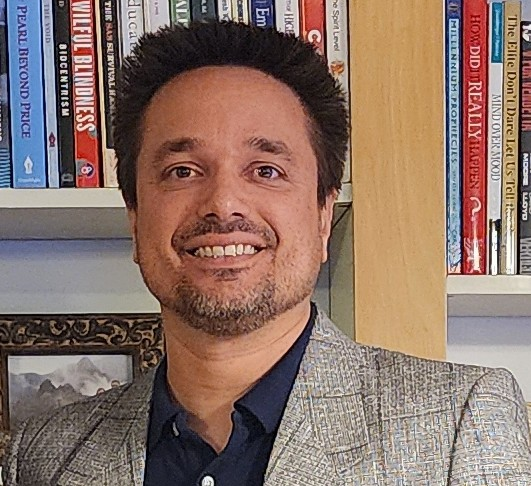
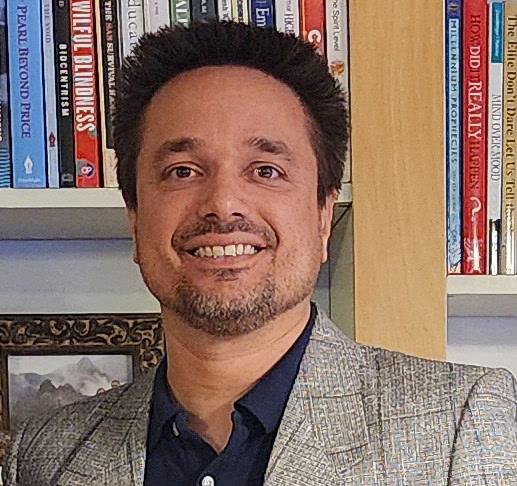
Crop About portrait right edge flush to wood panel.
Replace media/matt-sumegi.jpg with a 517x486 crop (14px off the
right) so the file ends at the light wood bookshelf panel. Pin
.portrait object-position to the right so the 4:5 cover crop
keeps that wood edge flush on the About page.

diff --git a/styles.css b/styles.css
@@ -1103,7 +1103,7 @@ button.cta {
   height: auto;
   aspect-ratio: 4 / 5;
   object-fit: cover;
-  object-position: center top;
+  object-position: right top;
   border-radius: 12px;
   border: 1px solid var(--line);
   box-shadow: var(--shadow);
